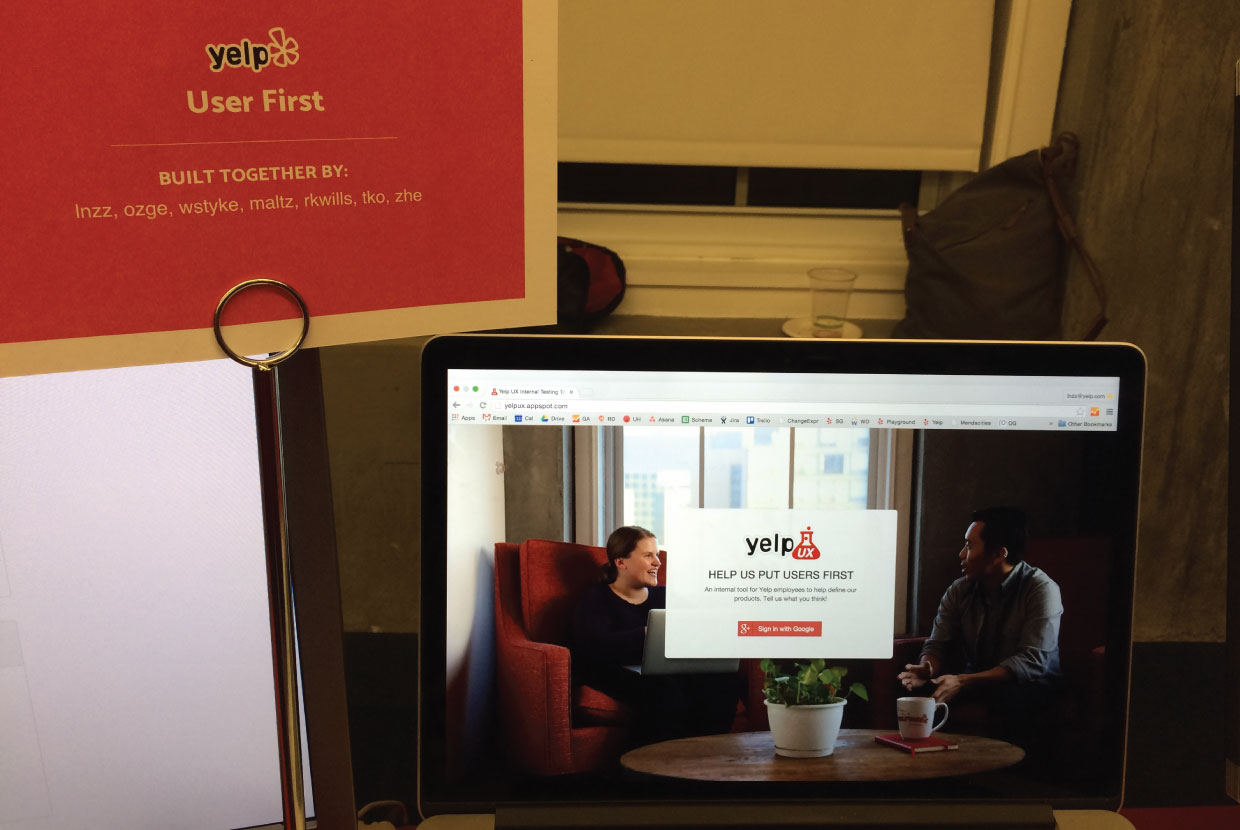
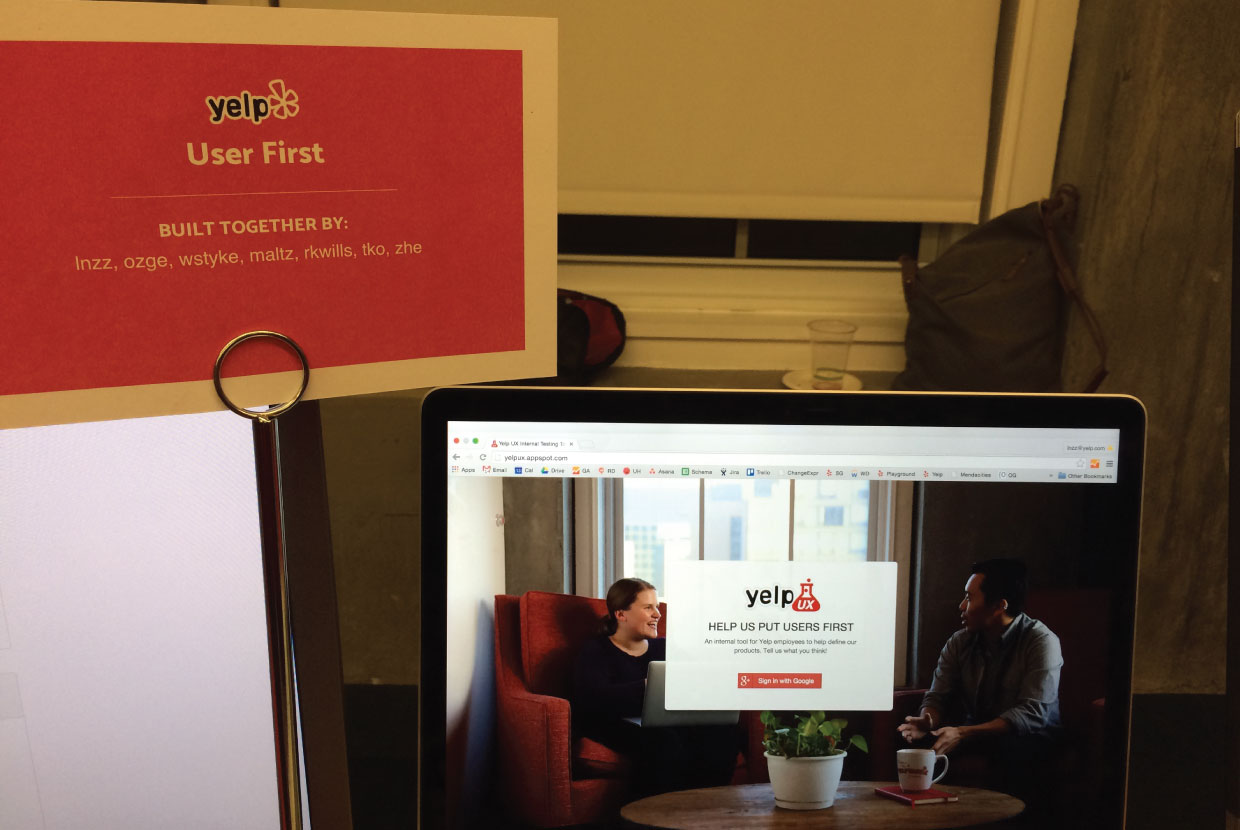
pics

diff --git a/css/style.css b/css/style.css
@@ -901,9 +901,9 @@ ul.info-list li strong {
 .poster {
     position:relative;
     background-size:cover;
-    background-position:inherit;
+    background-position:0 -20px;
     overflow:hidden;
-    min-height: 65vh;
+    min-height: 60vh;
     margin: -35px -50px -50px;
 }
 
